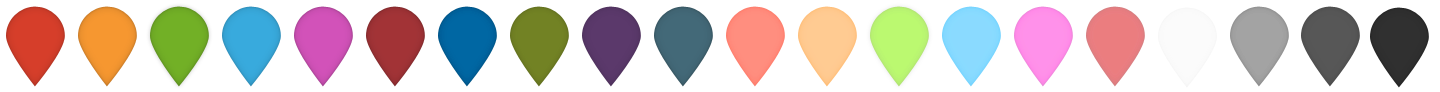
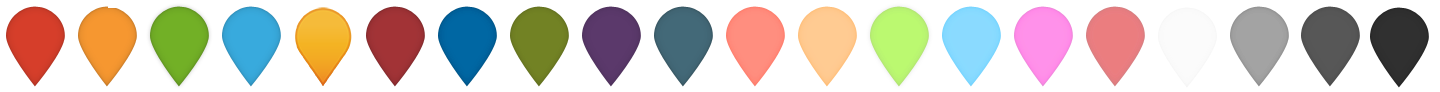
marker颜色搞定

Changed region(s): [[0.1875, 0.0652, 0.25, 0.913], [0.0625, 0.0652, 0.0938, 0.087]]

diff --git a/app/yt/index.html b/app/yt/index.html
@@ -50,7 +50,7 @@
 									<%}else if (info.le=='1'){%>
 										<span style="color: blue;padding-left: 0.1em;">(地灾点告警等级 <%=info.le%> 级)</span>
 									<%}else if (info.le=='2'){%>
-										<span style="color: yellow;padding-left: 0.1em;">(地灾点告警等级 <%=info.le%> 级)</span>
+										<span style="color: #FFD800;padding-left: 0.1em;">(地灾点告警等级 <%=info.le%> 级)</span>
 									<%}else if (info.le=='3'){%>
 										<span style="color: orange;padding-left: 0.1em;">(地灾点告警等级 <%=info.le%> 级)</span>
 									<%}else if (info.le=='4'){%>
@@ -71,7 +71,7 @@
 									<%}else if (info.le=='1'){%>
 										<span style="color: blue;padding-left: 0.1em;">(<%=info.typeNM%>告警等级 <%=info.le%> 级)</span>
 									<%}else if (info.le=='2'){%>
-										<span style="color: yellow;padding-left: 0.1em;">(<%=info.typeNM%>告警等级 <%=info.le%> 级)</span>
+										<span style="color: #FFD800;padding-left: 0.1em;">(<%=info.typeNM%>告警等级 <%=info.le%> 级)</span>
 									<%}else if (info.le=='3'){%>
 										<span style="color: orange;padding-left: 0.1em;">(<%=info.typeNM%>告警等级 <%=info.le%> 级)</span>
 									<%}else if (info.le=='4'){%>

diff --git a/app/yt/js/pages/index.js b/app/yt/js/pages/index.js
@@ -623,7 +623,7 @@ function getMarkerColorByWarnLevel(level) {
 			}
 		case '2':
 			{
-				markColor = 'yellow';
+				markColor = 'purple';//就是yellow颜色
 				break;
 			}
 		case '1':
